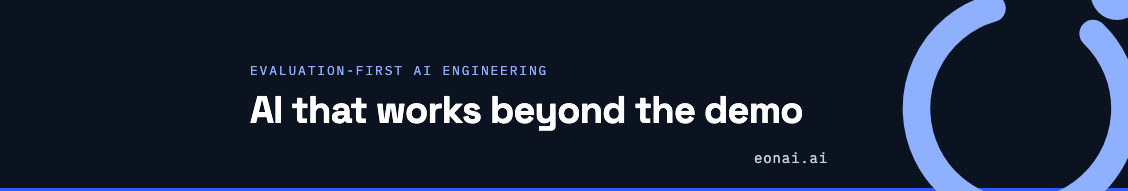
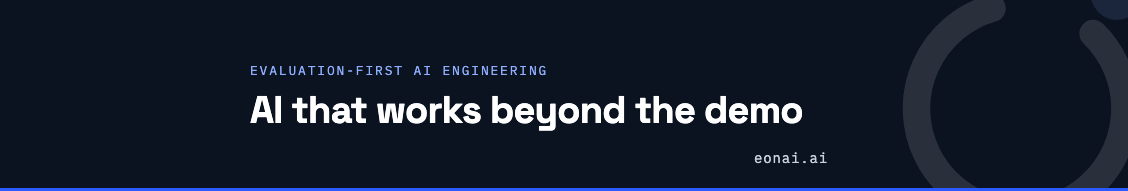
LinkedIn cover: back to the original faint loop, headline without full stop

Changed region(s): [[0.9309, 0.0, 1.0, 1.0], [0.7757, 0.0, 0.8998, 1.0]]

diff --git a/brand/social/linkedin-cover.html b/brand/social/linkedin-cover.html
@@ -3,12 +3,12 @@
 @font-face{font-family:'PM';src:url('../fonts/plex-mono-400.woff2') format('woff2');font-weight:400}
 html,body{margin:0}
 .c{position:relative;width:1128px;height:191px;background:#0B1220;overflow:hidden;font-family:'SG',sans-serif;color:#fff}
-.mark{position:absolute;right:-30px;top:-38px;width:270px;height:270px;z-index:1}
+.mark{position:absolute;right:-30px;top:-38px;width:270px;height:270px;opacity:.12}
 .t{position:absolute;left:250px;top:50%;transform:translateY(-50%)}
 .e{font-family:'PM',monospace;font-size:13px;letter-spacing:.14em;color:#8FB0FF;margin-bottom:12px}
 .h{font-size:38px;font-weight:700;letter-spacing:-.02em;line-height:1.05}
 .u{position:absolute;right:300px;bottom:24px;z-index:1;font-family:'PM',monospace;font-size:14px;letter-spacing:.06em;color:#C9D2E3}
 .line{position:absolute;left:0;right:0;bottom:0;height:3px;background:#2B5BFF}
-</style></head><body><div class="c"><svg class="mark" xmlns="http://www.w3.org/2000/svg" viewBox="21 198 588 588" ><path fill="none" stroke="#8FB0FF" stroke-width="60.0" stroke-linecap="round" d="M467.7 353.7A227.0 227.0 0 1 1 247.4 298.8"/><circle fill="#8FB0FF" cx="519.5" cy="267.3" r="57.0"/></svg>
+</style></head><body><div class="c"><svg class="mark" xmlns="http://www.w3.org/2000/svg" viewBox="21 198 588 588" ><path fill="none" stroke="#FFFFFF" stroke-width="60.0" stroke-linecap="round" d="M467.7 353.7A227.0 227.0 0 1 1 247.4 298.8"/><circle fill="#8FB0FF" cx="519.5" cy="267.3" r="57.0"/></svg>
 <div class="t"><div class="e">EVALUATION-FIRST AI ENGINEERING</div><div class="h">AI that works beyond the demo</div></div>
 <div class="u">eonai.ai</div><div class="line"></div></div></body></html>
